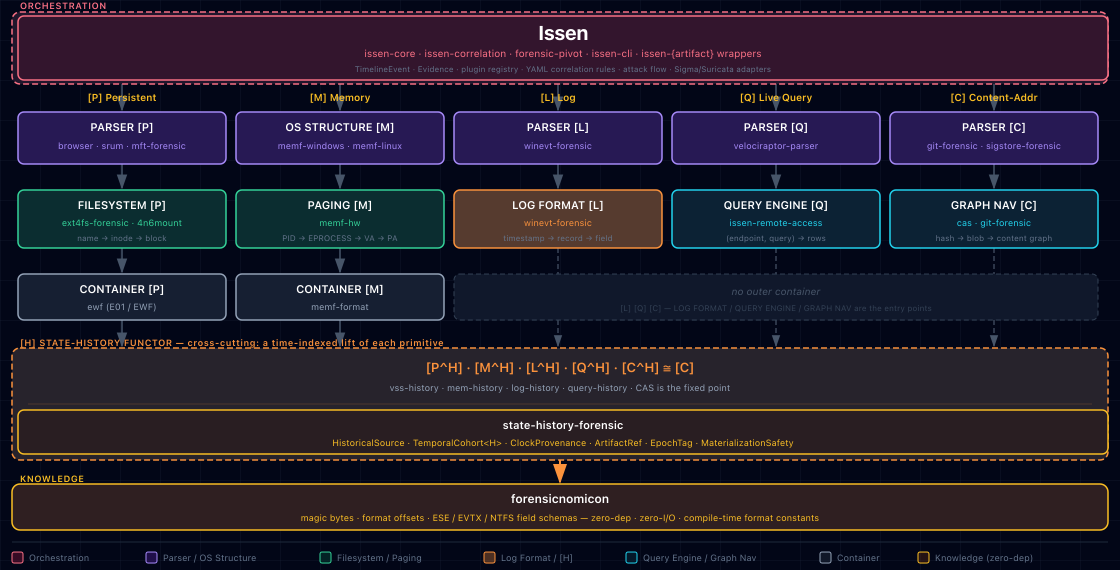
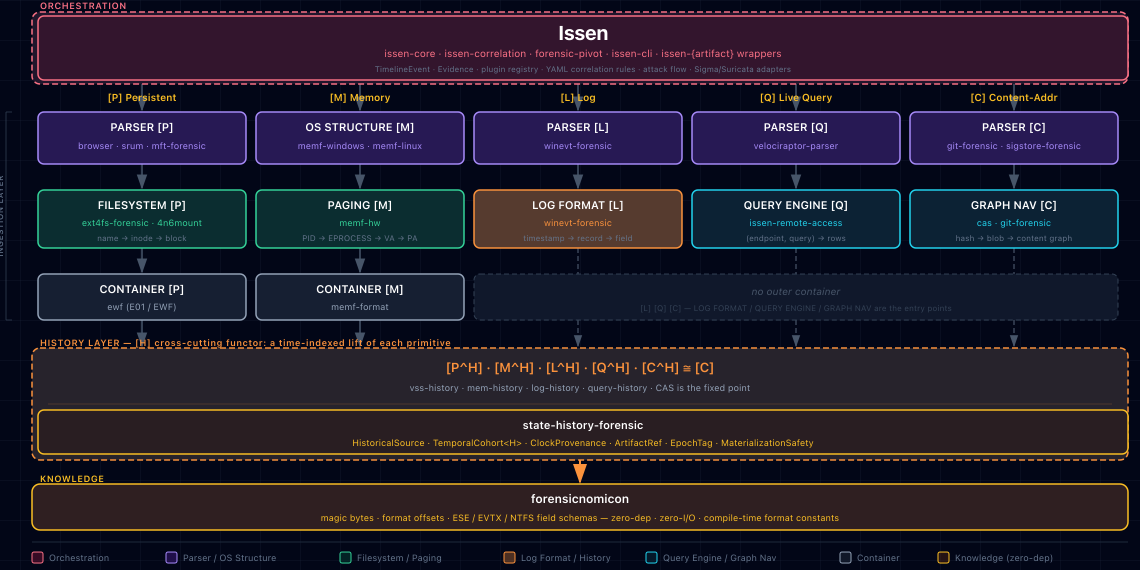
refactor(docs): rename layers — ingestion layer + history layer
- Add "INGESTION LAYER" left-side bracket spanning Parser/Navigation/Container rows
- Rename "[H] STATE-HISTORY FUNCTOR" strip to "HISTORY LAYER" throughout
- Update subtitle, card header, and legend entry to match
- Expand SVG viewBox 20px left to accommodate bracket label
- Re-rasterize architecture.png at 1140×570

diff --git a/docs/architecture-diagram.html b/docs/architecture-diagram.html
@@ -43,7 +43,7 @@
     <div class="pulse-dot"></div>
     <h1>Issen — System Architecture</h1>
   </div>
-  <p class="subtitle">5 navigation primitives &nbsp;·&nbsp; layered forensic stack &nbsp;·&nbsp; [H] state-history functor</p>
+  <p class="subtitle">5 navigation primitives &nbsp;·&nbsp; layered forensic stack &nbsp;·&nbsp; history layer</p>
 </div>
 
 <div class="diagram-card">
@@ -63,7 +63,7 @@
     legend sep:   y=544
     legend:       y=557
 -->
-<svg viewBox="0 0 1120 570" xmlns="http://www.w3.org/2000/svg"
+<svg viewBox="-20 0 1140 570" xmlns="http://www.w3.org/2000/svg"
      style="width:100%;height:auto;font-family:'Inter',system-ui,sans-serif;">
   <defs>
     <pattern id="grid" width="40" height="40" patternUnits="userSpaceOnUse">
@@ -77,8 +77,15 @@
     </marker>
   </defs>
 
-  <rect width="1120" height="570" fill="#020617"/>
-  <rect width="1120" height="570" fill="url(#grid)"/>
+  <rect x="-20" width="1140" height="570" fill="#020617"/>
+  <rect x="-20" width="1140" height="570" fill="url(#grid)"/>
+
+  <!-- INGESTION LAYER — left-side bracket and label -->
+  <line x1="-14" y1="112" x2="-14" y2="320" stroke="#334155" stroke-width="0.75"/>
+  <line x1="-14" y1="112" x2="-8"  y2="112" stroke="#334155" stroke-width="0.75"/>
+  <line x1="-14" y1="320" x2="-8"  y2="320" stroke="#334155" stroke-width="0.75"/>
+  <text transform="rotate(-90, -17, 216)" x="-17" y="216"
+        fill="#64748b" font-size="8" font-weight="500" text-anchor="middle" letter-spacing="0.5">INGESTION LAYER</text>
 
   <!-- ════ ARROWS (drawn first, behind all boxes) ════ -->
 
@@ -217,7 +224,7 @@
   <rect x="12" y="348" width="1096" height="112" rx="8" fill="#0f172a"/>
   <rect x="12" y="348" width="1096" height="112" rx="8"
         fill="rgba(251,146,60,0.1)" stroke="#fb923c" stroke-width="1.5" stroke-dasharray="6,3"/>
-  <text x="20" y="346" fill="#fb923c" font-size="9" font-weight="600" letter-spacing="0.5">[H] STATE-HISTORY FUNCTOR — cross-cutting: a time-indexed lift of each primitive</text>
+  <text x="20" y="346" fill="#fb923c" font-size="9" font-weight="600" letter-spacing="0.5">HISTORY LAYER — [H] cross-cutting functor: a time-indexed lift of each primitive</text>
 
   <!-- Implementations -->
   <text x="560" y="372" fill="#fb923c" font-size="13" font-weight="600" text-anchor="middle">[P^H]  ·  [M^H]  ·  [L^H]  ·  [Q^H]  ·  [C^H] ≅ [C]</text>
@@ -256,7 +263,7 @@
   <text x="337" y="561" fill="#64748b" font-size="9">Filesystem / Paging</text>
 
   <rect x="484" y="552" width="11" height="11" rx="2" fill="rgba(251,146,60,0.3)" stroke="#fb923c"  stroke-width="1"/>
-  <text x="501" y="561" fill="#64748b" font-size="9">Log Format / [H]</text>
+  <text x="501" y="561" fill="#64748b" font-size="9">Log Format / History</text>
 
   <rect x="626" y="552" width="11" height="11" rx="2" fill="rgba(8,51,68,0.4)"    stroke="#22d3ee"  stroke-width="1"/>
   <text x="643" y="561" fill="#64748b" font-size="9">Query Engine / Graph Nav</text>
@@ -287,7 +294,7 @@
   <div class="card">
     <div class="card-header">
       <div class="card-dot dot-violet"></div>
-      <h3>[H] State-History Functor</h3>
+      <h3>History Layer</h3>
     </div>
     <ul>
       <li>• Cross-cutting — not a 6th primitive</li>